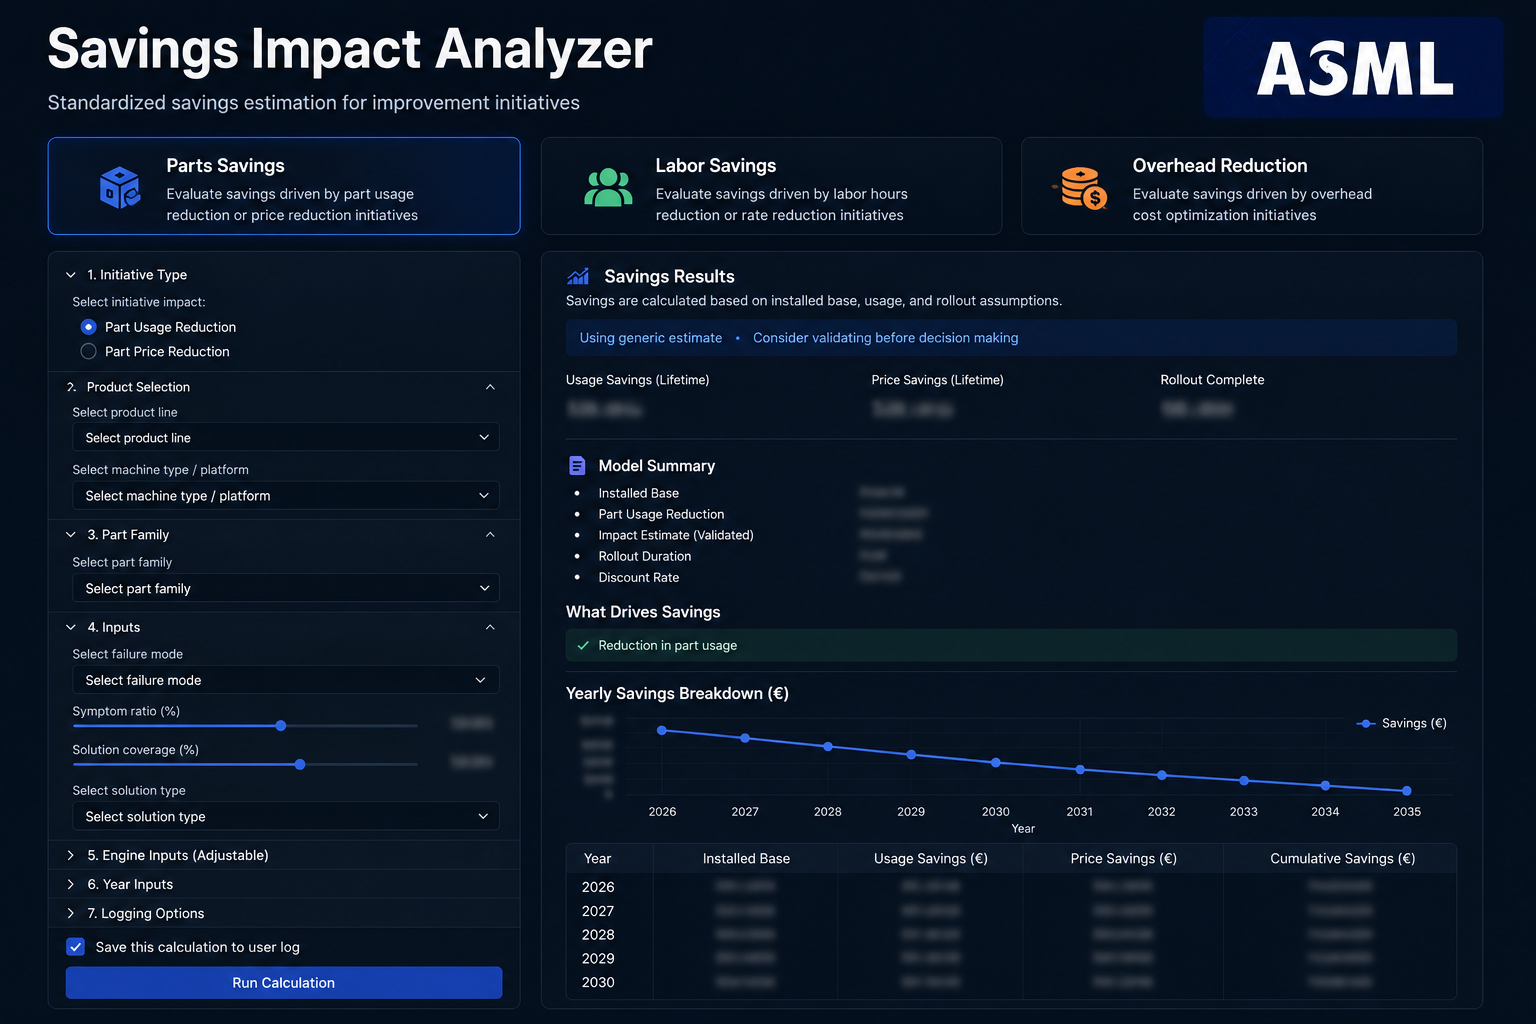
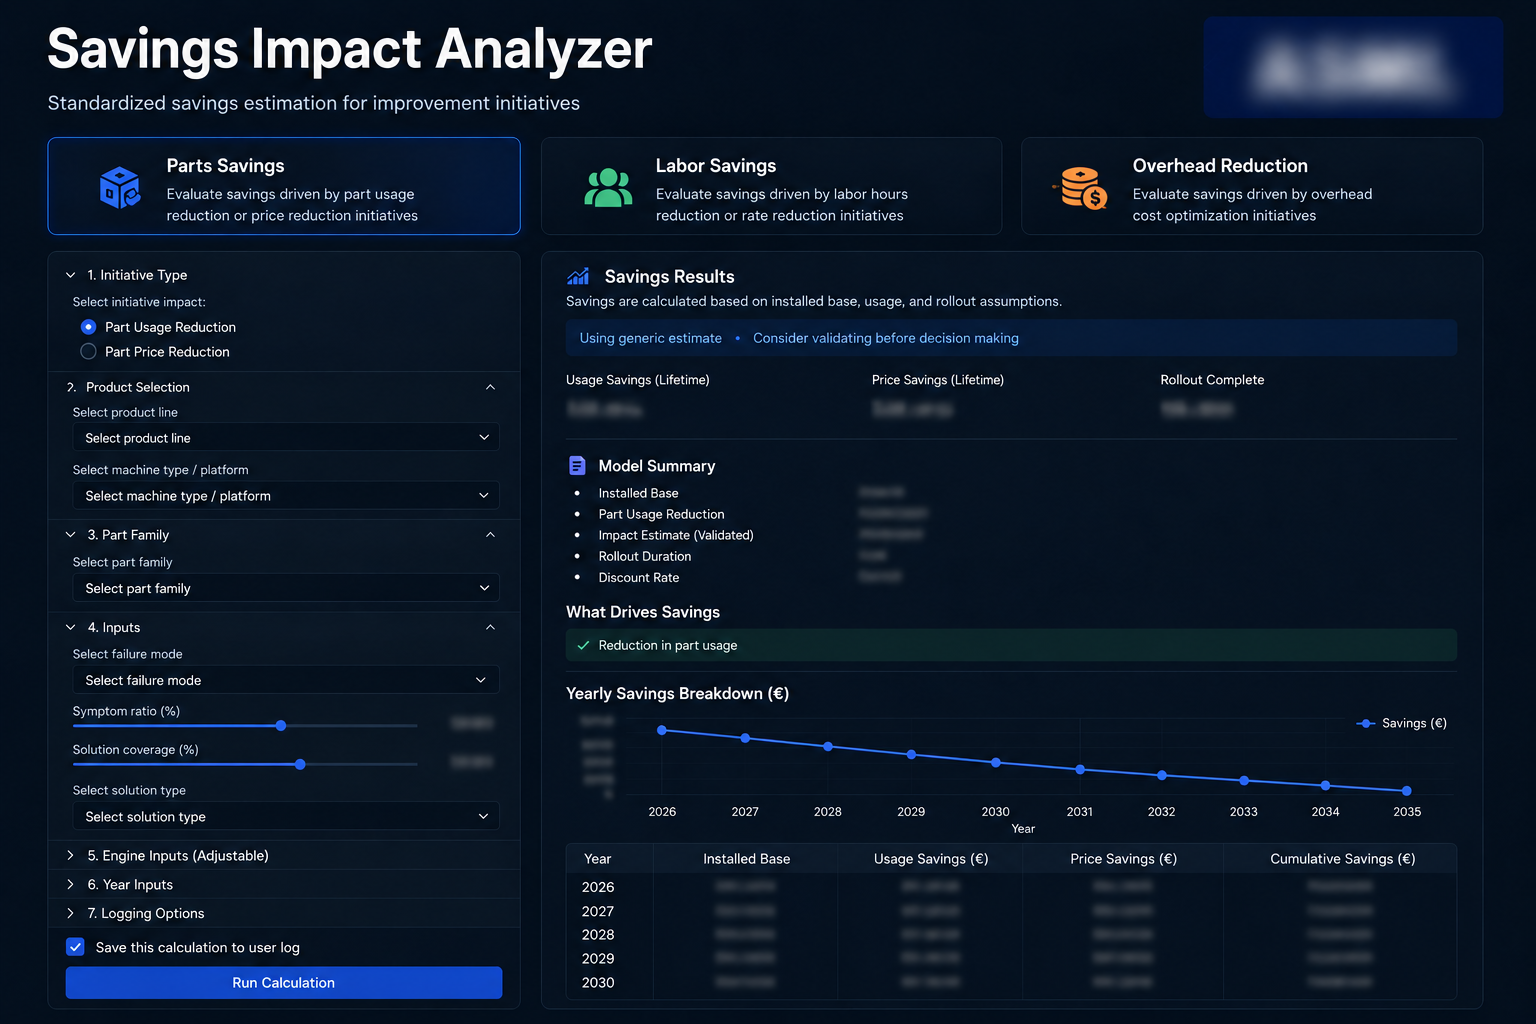
Color-code the S/T/A/C acronym rows to match the three pillar colors
Ties the acronym reveal back to the "three disciplines" pitch above
it: S (Financial Advisory) tints indigo, T and A share the same teal
as AI & Technology since they combine into one pillar there, and C
(Marketing & Growth) tints violet. Applies to the letter, the drawn
underline, and the word label once revealed.

Also includes a privacy redaction update to the Savings Impact
Analyzer screenshot (client logo and figures blurred).

diff --git a/index.html b/index.html
@@ -360,15 +360,16 @@ footer{background:#0B1A2E;padding:24px 64px;border-top:1px solid rgba(255,255,25
 .acro-row{display:flex;align-items:center;gap:0;padding:10px 0;border-bottom:1px solid rgba(11,26,46,0.1);opacity:0;transform:translateY(16px);transition:opacity .5s ease,transform .5s ease;}
 .acro-row.in{opacity:1;transform:none;}
 .acro-row:first-child{border-top:1px solid rgba(11,26,46,0.1);}
-.acro-row:nth-child(1){transition-delay:.0s;}
-.acro-row:nth-child(2){transition-delay:.08s;}
-.acro-row:nth-child(3){transition-delay:.16s;}
-.acro-row:nth-child(4){transition-delay:.24s;}
-.acro-letter{font-family:'Barlow Condensed',sans-serif;font-weight:800;font-size:clamp(36px,4vw,56px);line-height:1;color:#0B1A2E;width:72px;flex-shrink:0;}
+.acro-row:nth-child(1){transition-delay:.0s;--ac:var(--indigo);--ac2:var(--indigo2);}
+.acro-row:nth-child(2){transition-delay:.08s;--ac:var(--techdk);--ac2:var(--cyan);}
+.acro-row:nth-child(3){transition-delay:.16s;--ac:var(--techdk);--ac2:var(--cyan);}
+.acro-row:nth-child(4){transition-delay:.24s;--ac:var(--violetdk);--ac2:var(--violet);}
+.acro-letter{font-family:'Barlow Condensed',sans-serif;font-weight:800;font-size:clamp(36px,4vw,56px);line-height:1;color:var(--ac);width:72px;flex-shrink:0;transition:color .3s ease;}
 .acro-line{flex:1;height:1px;background:rgba(11,26,46,0.1);margin:0 32px;position:relative;overflow:hidden;}
-.acro-line::after{content:'';position:absolute;top:0;left:-100%;right:100%;height:1px;background:linear-gradient(90deg,#14329E,#2F6FEF);transition:left .7s cubic-bezier(.77,0,.175,1),right .7s cubic-bezier(.77,0,.175,1);}
+.acro-line::after{content:'';position:absolute;top:0;left:-100%;right:100%;height:1px;background:linear-gradient(90deg,var(--ac),var(--ac2));transition:left .7s cubic-bezier(.77,0,.175,1),right .7s cubic-bezier(.77,0,.175,1);}
 .acro-row.in .acro-line::after{left:0;right:0;}
-.acro-word{font-family:'Barlow Condensed',sans-serif;font-weight:700;font-style:italic;font-size:clamp(24px,3vw,44px);line-height:1.3;color:#5A7A9A;width:260px;text-align:right;flex-shrink:0;}
+.acro-word{font-family:'Barlow Condensed',sans-serif;font-weight:700;font-style:italic;font-size:clamp(24px,3vw,44px);line-height:1.3;color:#5A7A9A;width:260px;text-align:right;flex-shrink:0;transition:color .3s ease;}
+.acro-row.in .acro-word{color:var(--ac2);}
 .acro-word span{display:inline-block;transform:translateX(16px);opacity:0;transition:transform .6s cubic-bezier(.77,0,.175,1) .25s,opacity .6s ease .25s;}
 .acro-row.in .acro-word span{transform:translateX(0);opacity:1;}
 .acro-row:nth-child(2) .acro-word span{transition-delay:.35s;}
